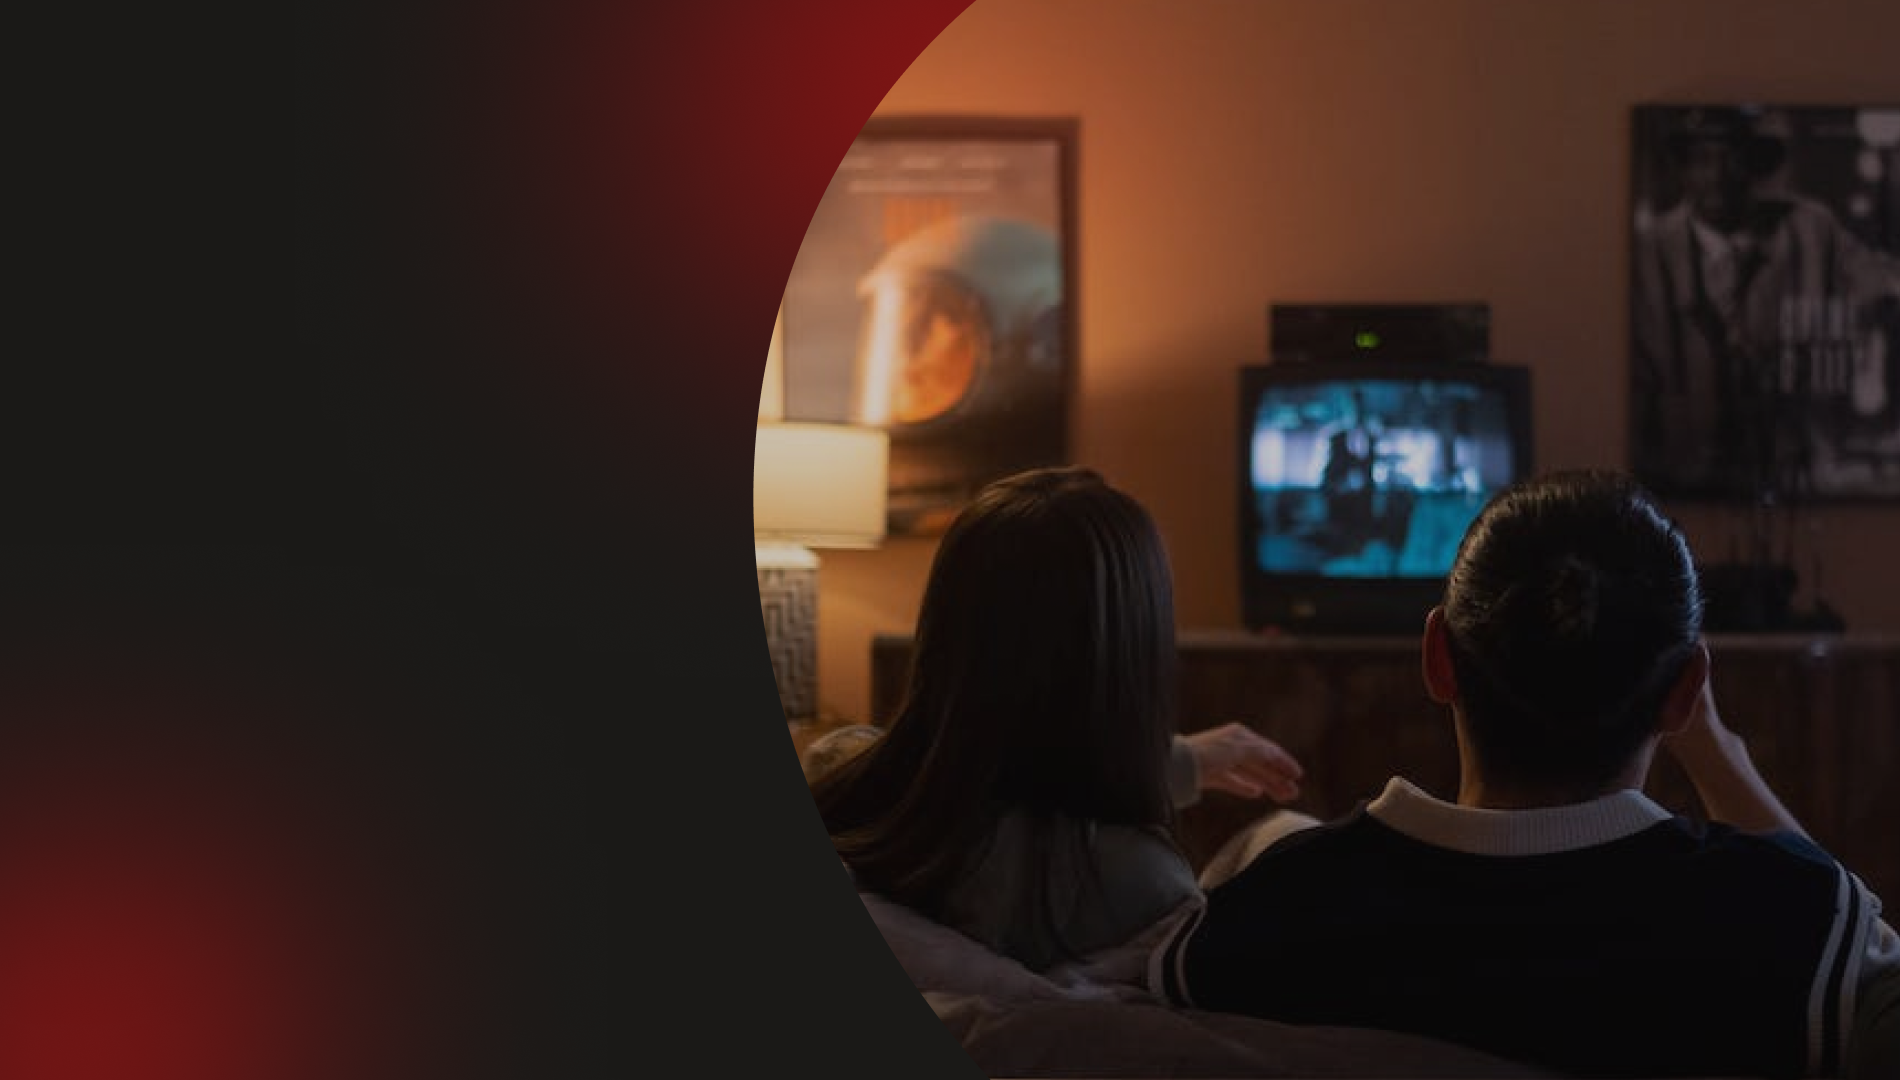
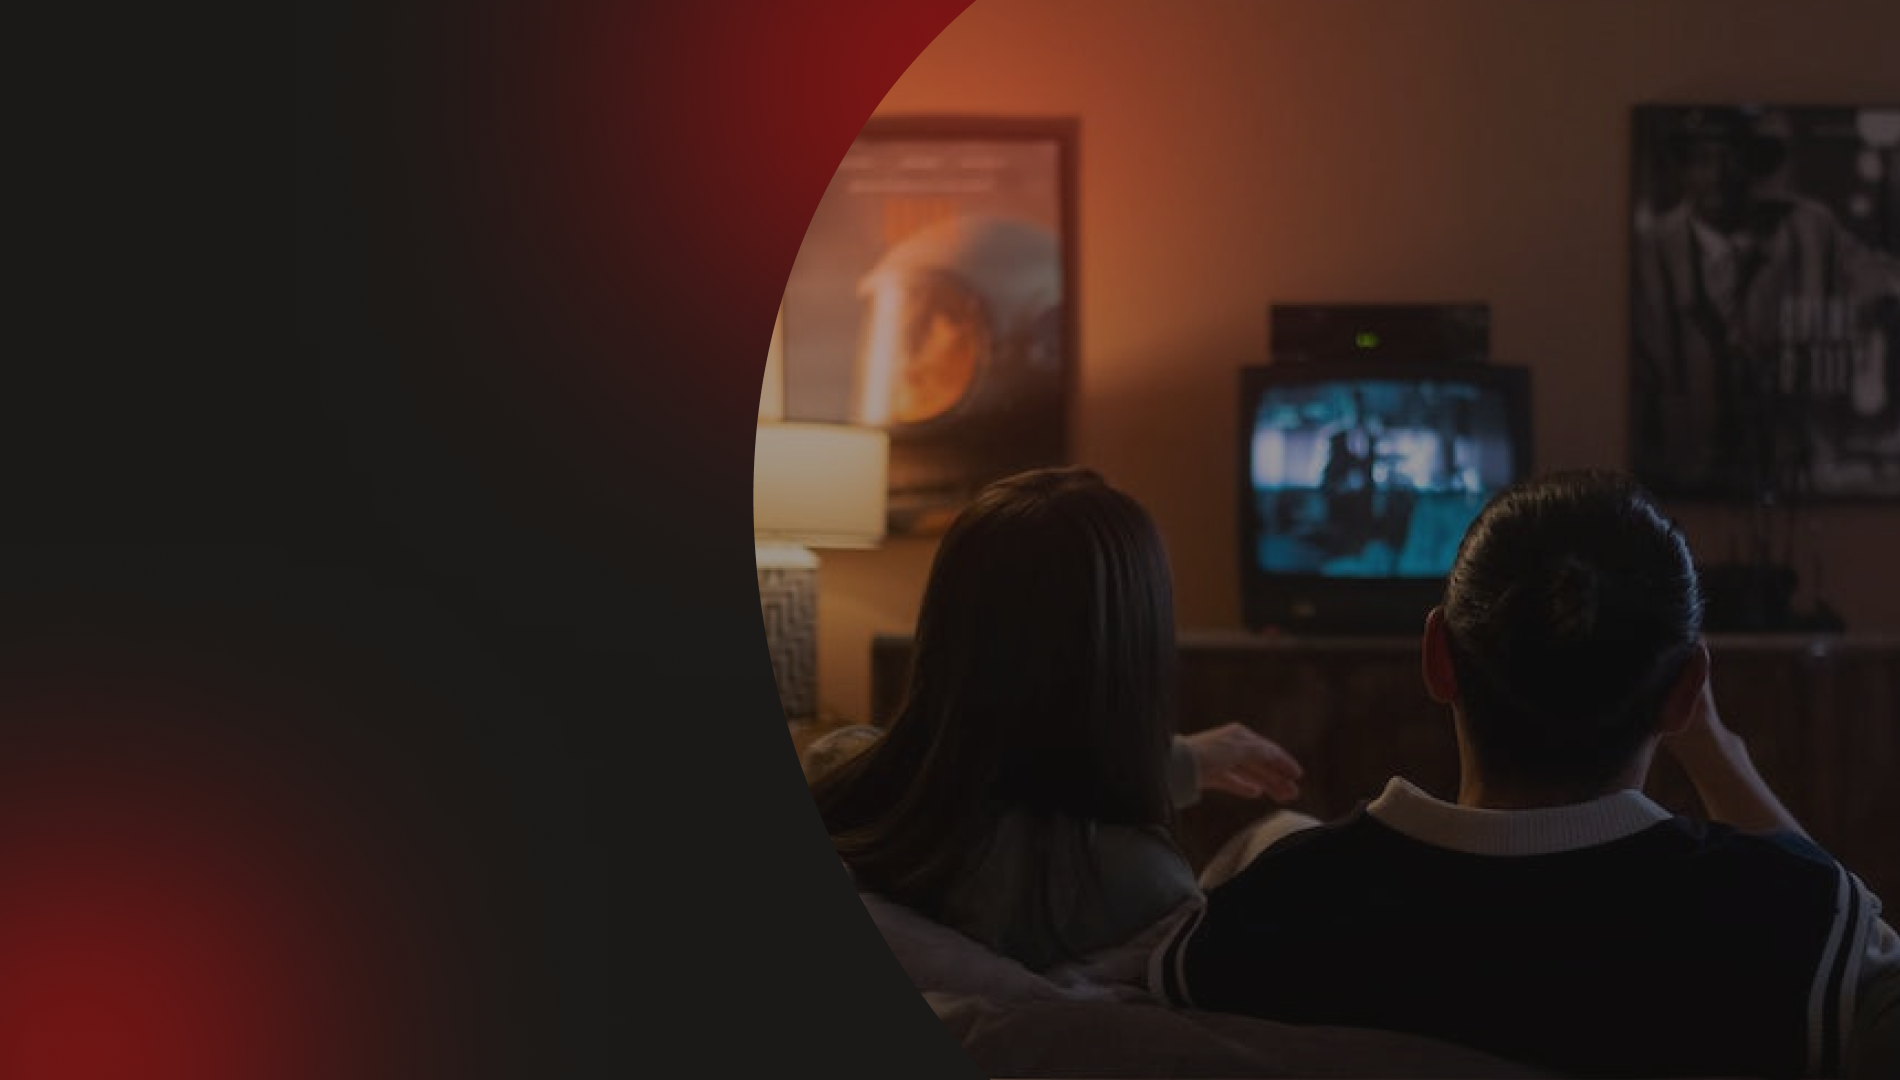
searchbar frontpage

Changed region(s): [[0.3726, 0.2139, 0.5279, 0.6417], [0.6521, 0.3667, 0.8074, 0.55], [0.5589, 0.275, 0.6211, 0.3361]]

diff --git a/src/components/NavBar.tsx b/src/components/NavBar.tsx
@@ -13,12 +13,16 @@ import {
     PopoverBody,
     PopoverArrow,
     Link as ChakraLink,
+    Input,
+    InputGroup,
+    InputLeftElement,
 } from '@chakra-ui/react'
 
 import { Link as ReactRouterLink } from 'react-router-dom'
-import { MoonIcon, SunIcon } from '@chakra-ui/icons'
+import { MoonIcon, SunIcon, SearchIcon } from '@chakra-ui/icons'
 import Login from "./LoginModal";
 import SubNav from "./SubNav";
+import SearchBar from "./Searchbar"
 
 
 export default function NavBar() {
@@ -69,12 +73,22 @@ export default function NavBar() {
 
                         <Flex alignItems={'center'} justifyContent={'space-between'}>
                             <Stack
-                                flex={{md: 0}}
                                 justify={'flex-end'}
                                 direction={'row'}
                                 spacing={6}>
 
+                                <InputGroup size="md"  variant='filled' >
+                                    <InputLeftElement pointerEvents='none'>
+                                        <SearchIcon color='gray.300' />
+                                    </InputLeftElement>
+                                    <Input type='search' placeholder='Search...' focusBorderColor='#A61212' borderRadius='10px' />
+                                </InputGroup>
+
+
+
+
                                 <Login/>
+
 
                                 <Stack direction={'row'} spacing={7}>
                                     <Button onClick={toggleColorMode} borderRadius={'none'} bg={'none'} _hover={{
@@ -83,7 +97,6 @@ export default function NavBar() {
                                         {colorMode === 'light' ? <MoonIcon /> : <SunIcon />}
                                     </Button>
                                 </Stack>
-
                             </Stack>
 
                         </Flex>

diff --git a/src/components/FrontPageFirstSection.tsx b/src/components/FrontPageFirstSection.tsx
@@ -18,12 +18,12 @@ function FrontPageFirstSection() {
             <GridItem>
                 <Flex py={{ base: '80px', md: '', lg: '90px' }} w='100%' minH={{ base: '55vh', md: '90vh', lg: '92.5vh' }} alignContent={"center"} justifyContent={"center"}>
                     <Center >
-                        <Box maxW='87%'>
+                        <Box maxW={{base:"80%", lg:"87%"}}>
                             <Box display="grid" gridGap={{ base: "4", md: "6", lg: "8" }}>
                                 <Heading as='h1' fontSize={{ base: "35px", md: "40px", lg: "45px" }}>
                                     Start Swiping Today!
                                 </Heading>
-                                <Text fontSize={{ base: "20px", md: "21px", lg: "22px" }}  maxW='85%' lineHeight='1.9' mb={{ base: "4", md: "6", lg: "8" }}>
+                                <Text fontSize={{ base: "20px", md: "21px", lg: "22px" }}  maxW={{base:"100%", lg:"80%"}} lineHeight='1.9' mb={{ base: "4", md: "6", lg: "8" }}>
                                     Fed up with the endless scrolling and disagreements when trying to pick a movie to watch with friends or family?
                                     Look no further – welcome to the ultimate platform for matching your movie interests.
                                     Join us today and let the cinematic matchmaking begin!

diff --git a/src/pages/FrontPage.tsx b/src/pages/FrontPage.tsx
@@ -14,7 +14,10 @@ function FrontPage() {
 
     return (
         <div>
-        <Box style={{ backgroundImage: `url(${hero})` }}>
+        <Box style={{ backgroundImage: `url(${hero})` }}
+             backgroundSize="cover"
+             backgroundRepeat="no-repeat"
+             backgroundPosition={{ base: 'right', md: 'center', lg: 'center' }}>
             <NavBar/>
             <FrontPageFirstSection/>
         </Box>

diff --git a/src/components/Searchbar.tsx b/src/components/Searchbar.tsx
@@ -2,16 +2,9 @@ import React from 'react';
 import '../App.css';
 import {
     Box,
-    Button,
     Center,
     Flex,
-    GridItem,
-    Heading,
-    Image,
-    SimpleGrid,
-    Text,
     Input,
-    VStack
 } from '@chakra-ui/react';
 
 function Searchbar() {
